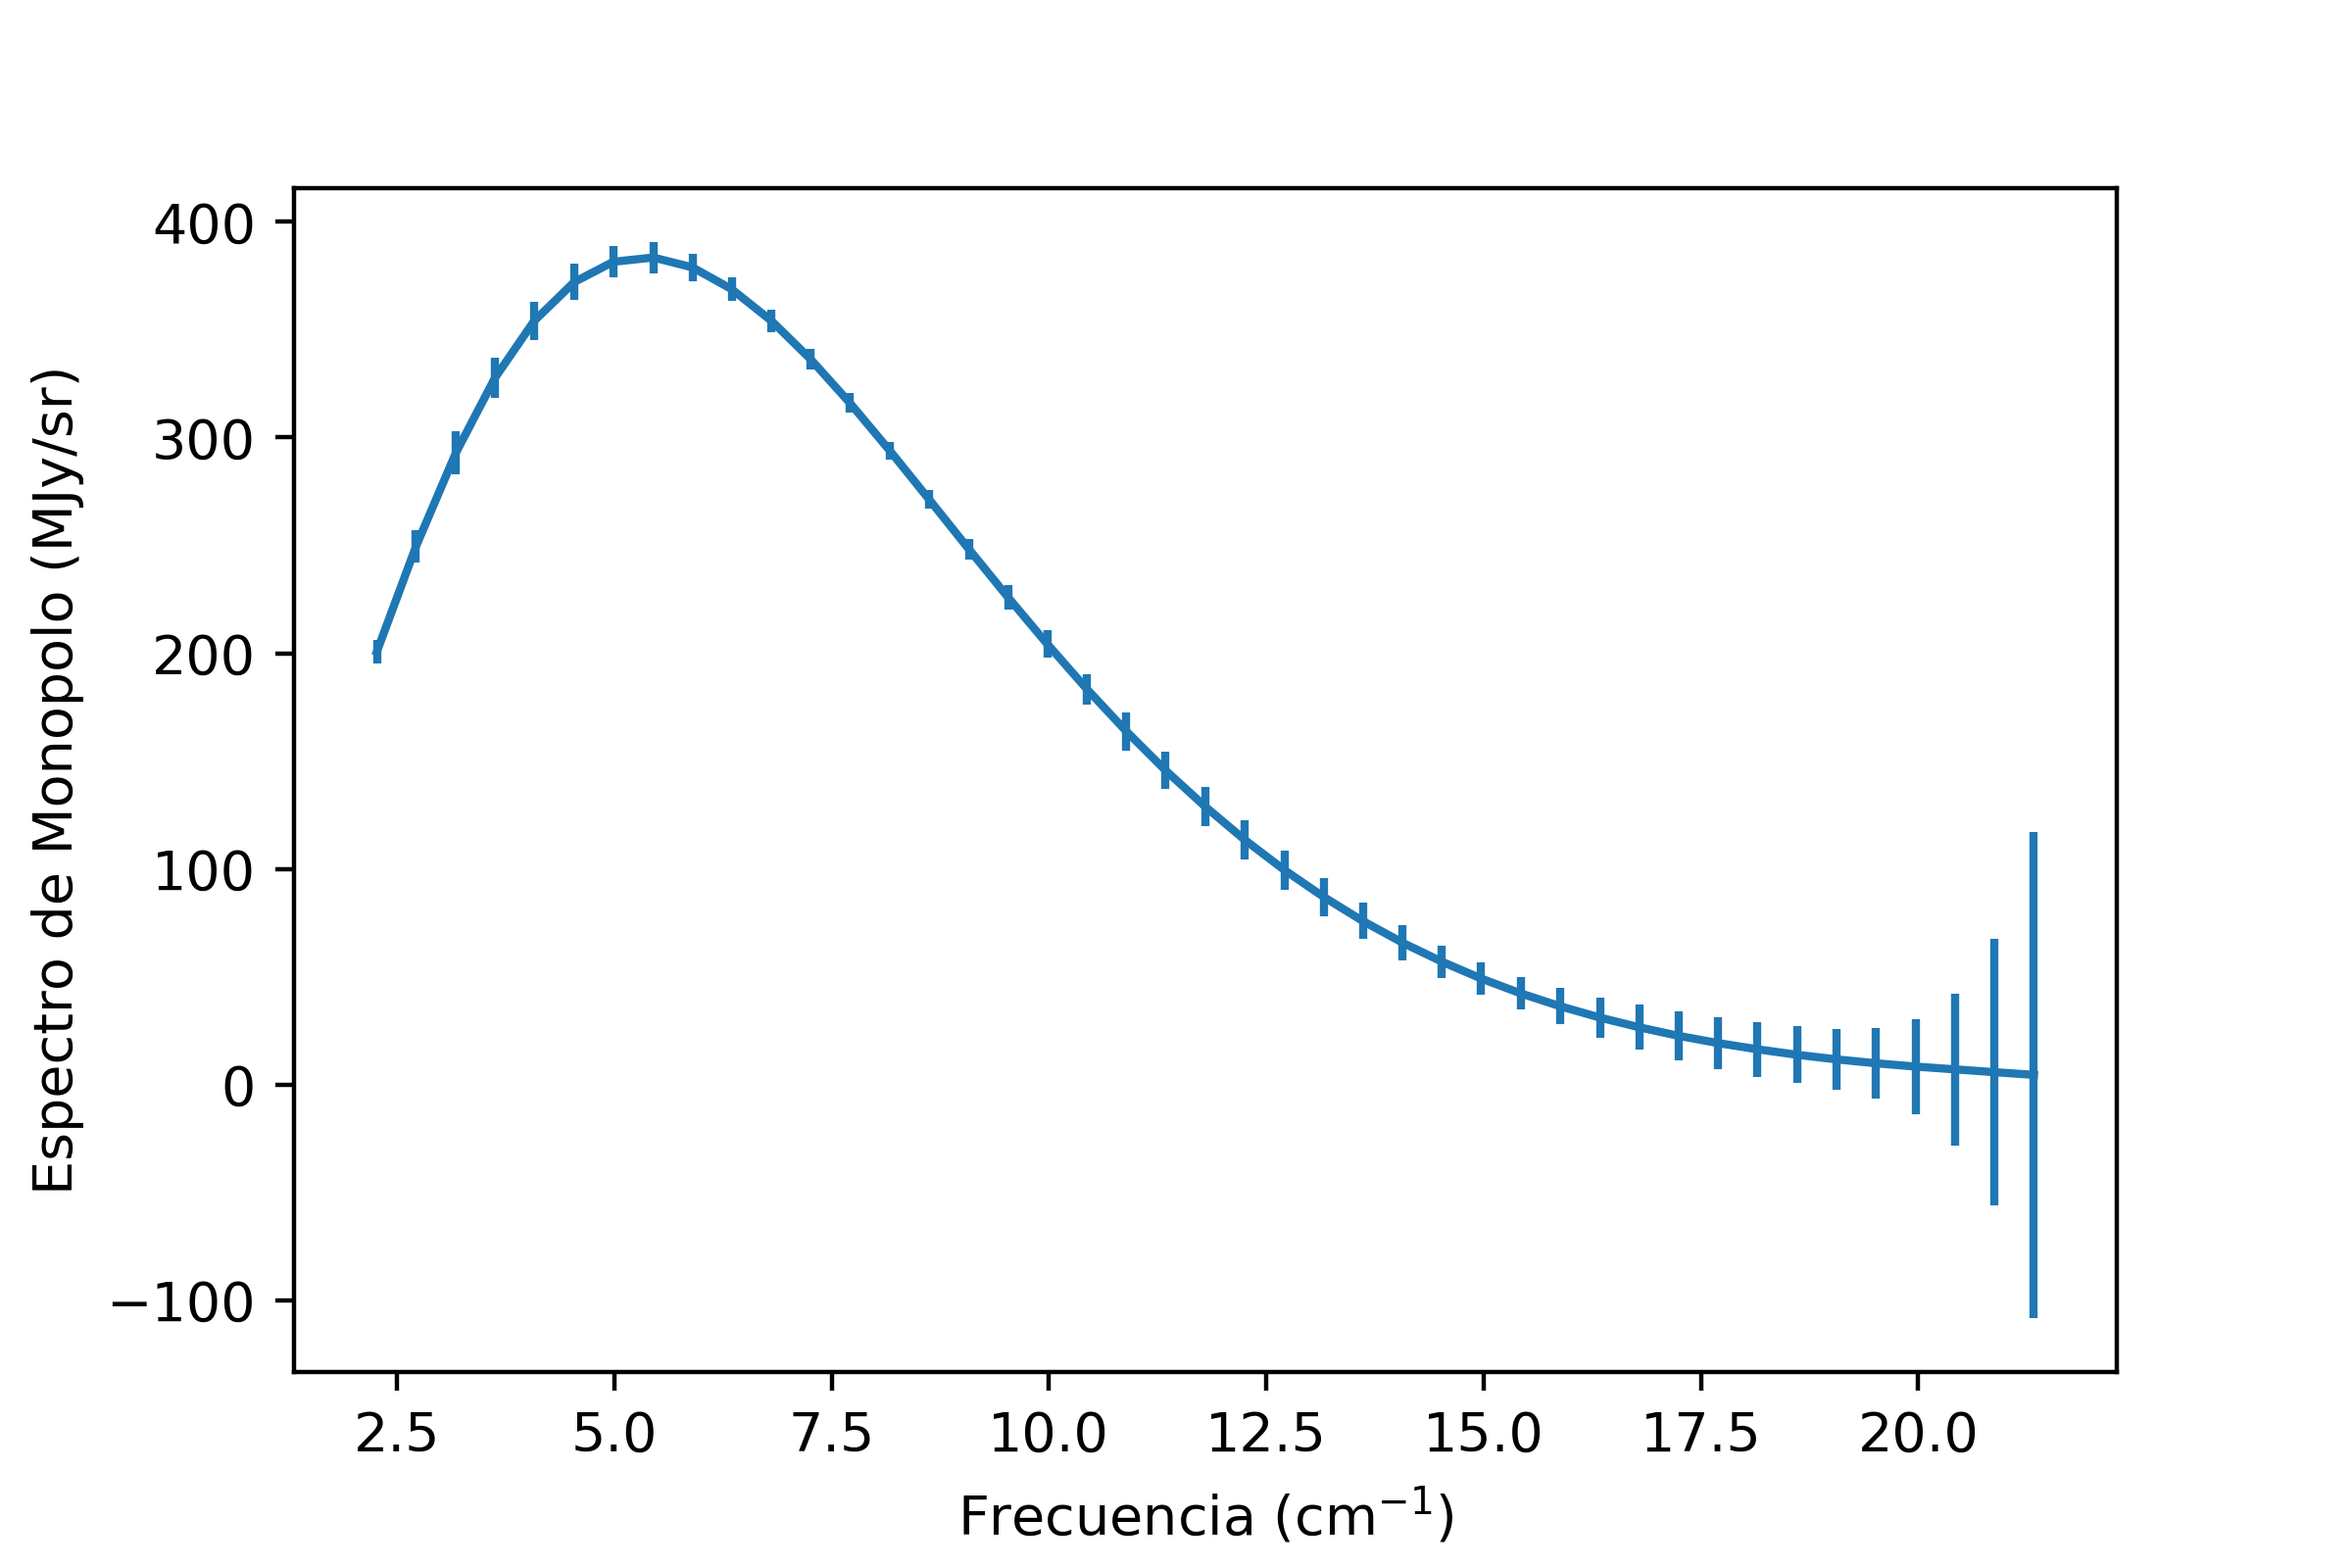
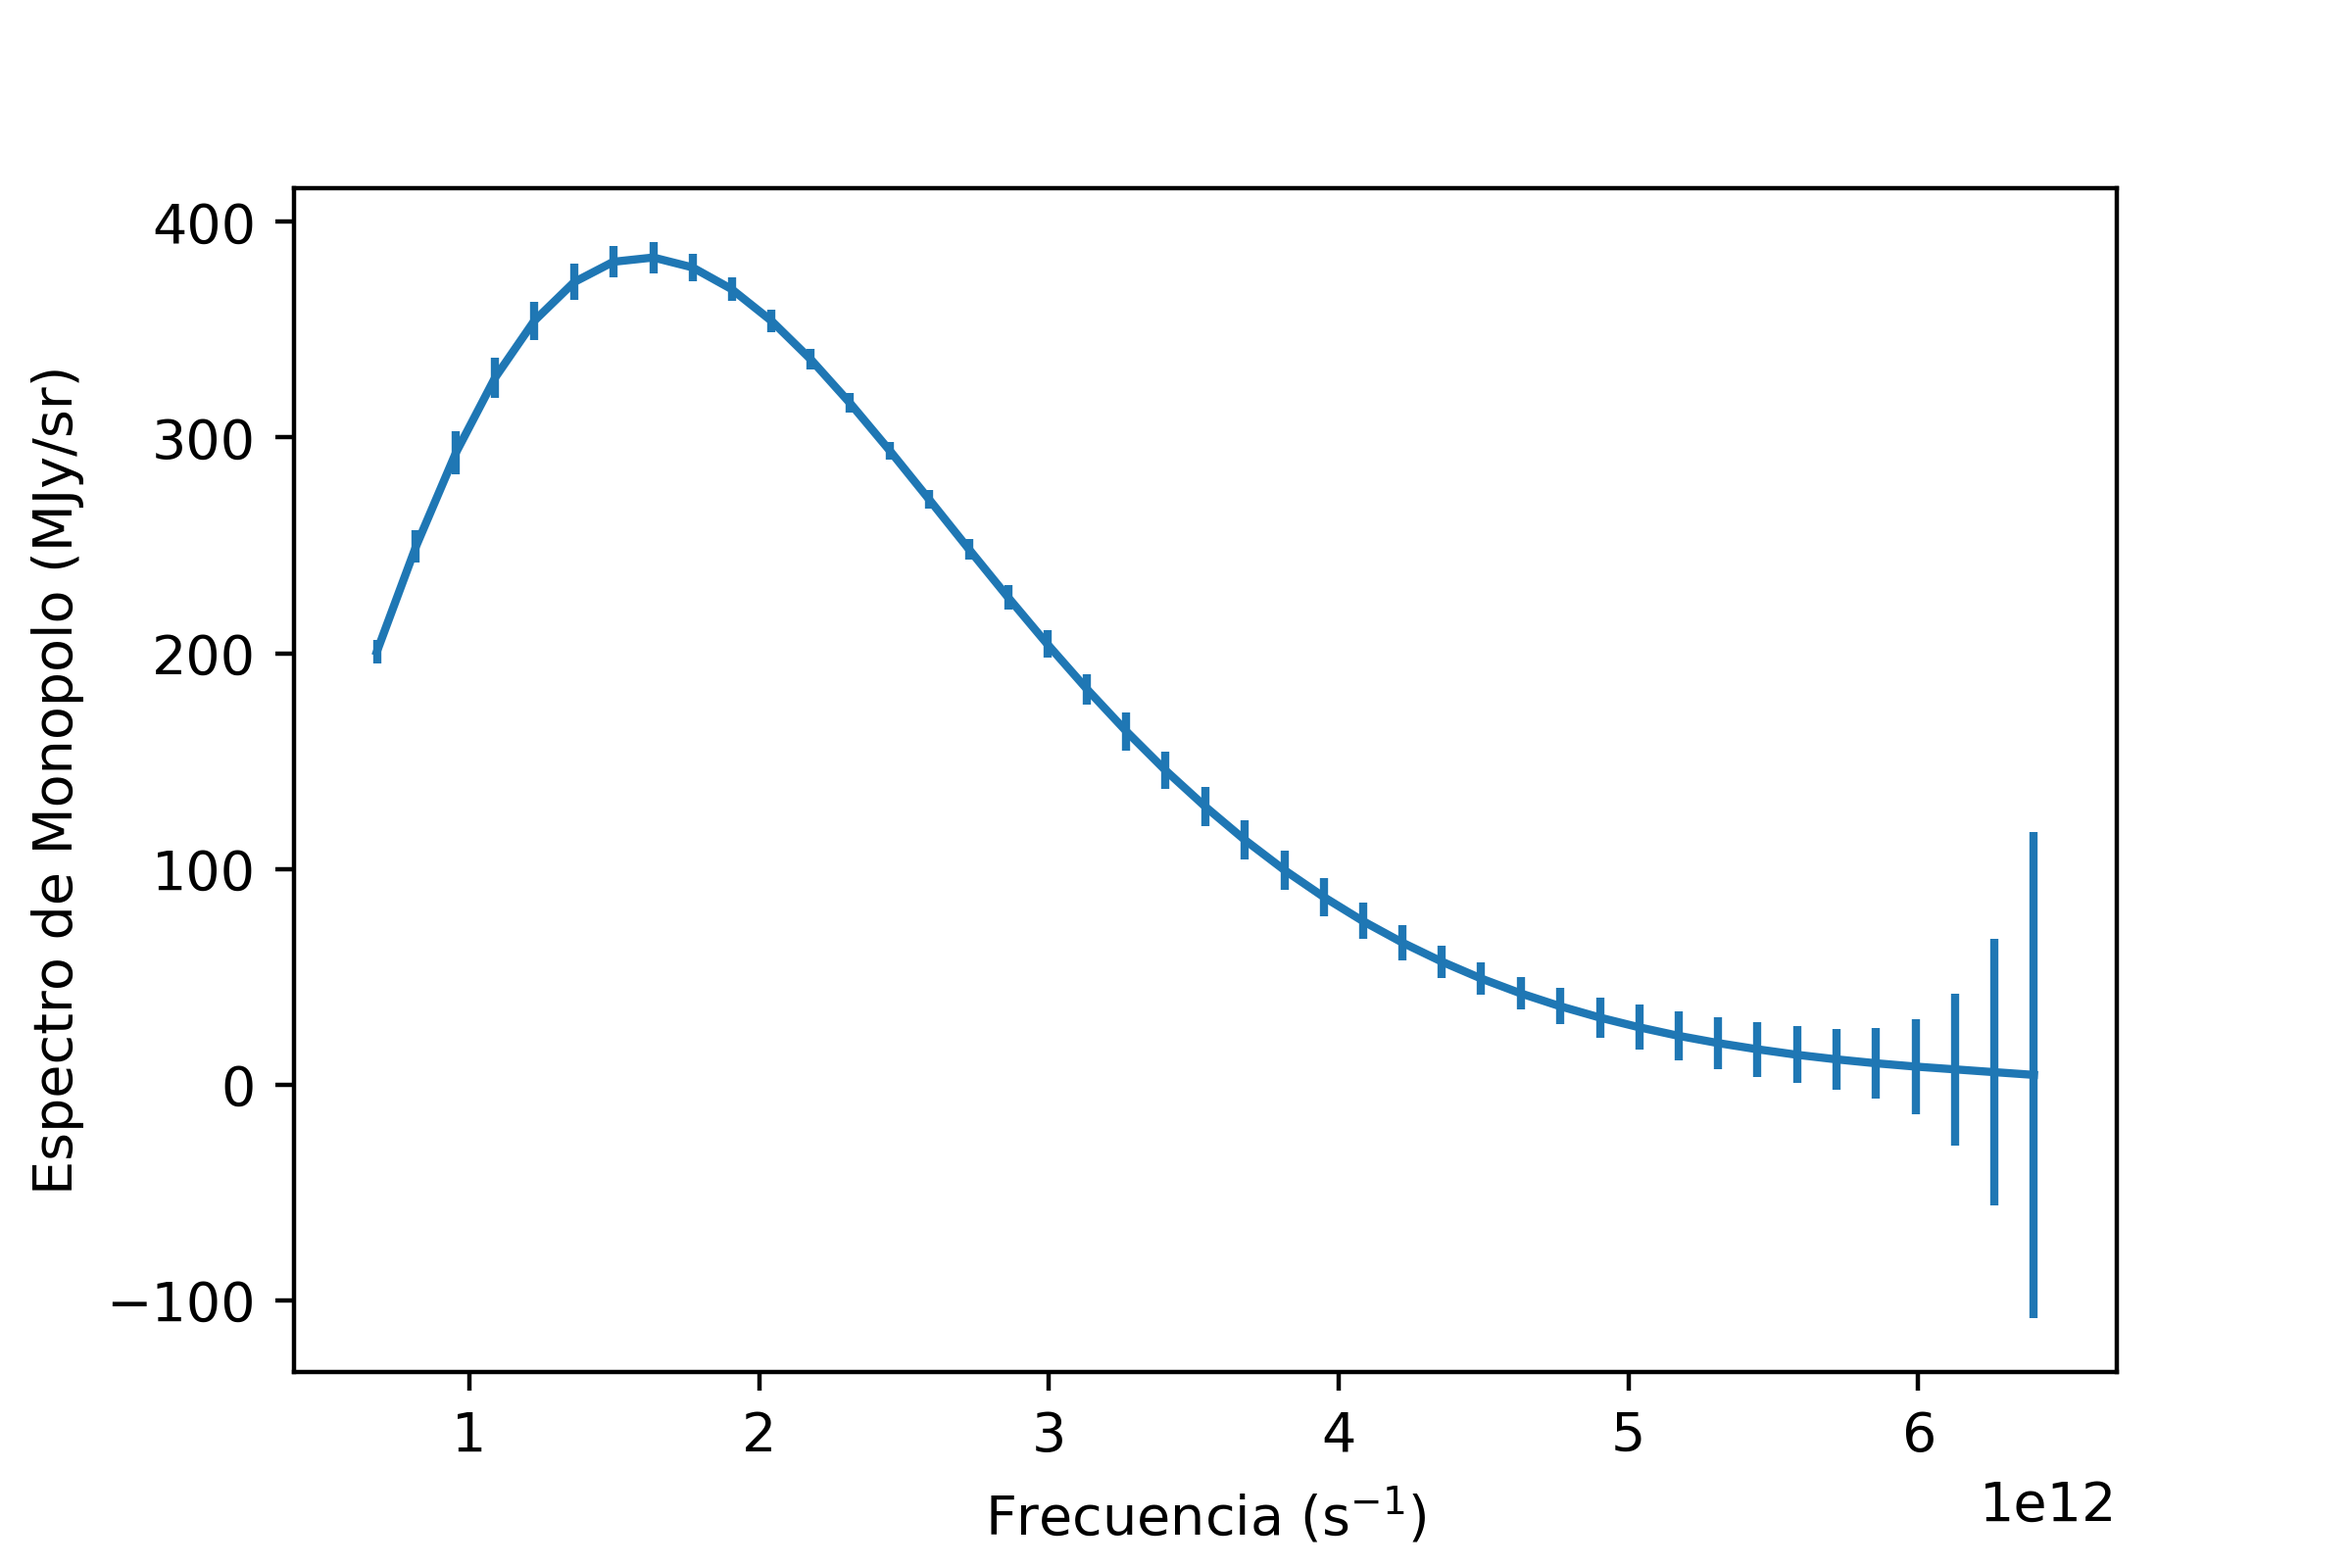
Arreglar plot P1 parte 1. Agregar tipos de Floats en P1.

diff --git a/T1P1.py b/T1P1.py
@@ -25,13 +25,11 @@ def derivada_4(f, x, step):
 x0 = 1.388 
 h = np.logspace(-1, -15, 15, base = 10)
 
-h = np.float64(h)
+x0 = np.float32(x0) 
+h = np.float32(h)
 
 derivadas_1 = - derivada_1(np.cos, x0, h)
 derivadas_4 = - derivada_4(np.cos, x0, h)
-
-#derivadas_1 = np.float64(derivadas_1)
-#derivadas_4 = np.float64(derivadas_4)
 
 dif_1 = np.fabs(np.sin(x0) - derivadas_1)
 dif_4 = np.fabs(np.sin(x0) - derivadas_4)
@@ -41,5 +39,54 @@ plt.yscale('log')
 plt.plot(h, dif_1, label = "$\mathcal{O}(h)$")
 plt.plot(h, dif_4, label = "$\mathcal{O}(h^4)$")
 plt.legend()
+plt.xlabel("Paso $h$")
+plt.ylabel("Error")
 
-plt.show()
+plt.savefig("PlotP1_float32.png")  
+plt.clf()
+
+x0 = 1.388 
+h = np.logspace(-1, -15, 15, base = 10)
+
+x0 = np.float64(x0) 
+h = np.float64(h)
+
+derivadas_1 = - derivada_1(np.cos, x0, h)
+derivadas_4 = - derivada_4(np.cos, x0, h)
+
+dif_1 = np.fabs(np.sin(x0) - derivadas_1)
+dif_4 = np.fabs(np.sin(x0) - derivadas_4)
+
+plt.xscale('log')
+plt.yscale('log')
+plt.plot(h, dif_1, label = "$\mathcal{O}(h)$")
+plt.plot(h, dif_4, label = "$\mathcal{O}(h^4)$")
+plt.legend()
+plt.xlabel("Paso $h$")
+plt.ylabel("Error")
+
+plt.savefig("PlotP1_float64.png")  
+plt.clf()
+
+x0 = 1.388 
+h = np.logspace(-1, -15, 15, base = 10)
+
+x0 = np.float128(x0) 
+h = np.float128(h)
+
+derivadas_1 = - derivada_1(np.cos, x0, h)
+derivadas_4 = - derivada_4(np.cos, x0, h)
+
+dif_1 = np.fabs(np.sin(x0) - derivadas_1)
+dif_4 = np.fabs(np.sin(x0) - derivadas_4)
+
+plt.xscale('log')
+plt.yscale('log')
+plt.plot(h, dif_1, label = "$\mathcal{O}(h)$")
+plt.plot(h, dif_4, label = "$\mathcal{O}(h^4)$")
+plt.legend()
+plt.xlabel("Paso $h$")
+plt.ylabel("Error")
+
+plt.savefig("PlotP1_float128.png")  
+plt.clf()

diff --git a/T1P2.py b/T1P2.py
@@ -19,9 +19,9 @@ y = np.loadtxt("firas_monopole_spec_v1.txt", usecols = 1)
 err = np.loadtxt("firas_monopole_spec_v1.txt", usecols = 3)
 
 fig, ax = plt.subplots() 
-ax.errorbar(x, y, xerr = 0, yerr = 400* err / 1000)
+ax.errorbar(x * 3e11, y, xerr = 0, yerr = 400* err / 1000)
 
-plt.xlabel("Frecuencia (cm$^{-1}$)")
+plt.xlabel("Frecuencia (s$^{-1}$)")
 plt.ylabel("Espectro de Monopolo (MJy/sr)")
 
 plt.savefig("espectro_monopolo.png",dpi=400)
